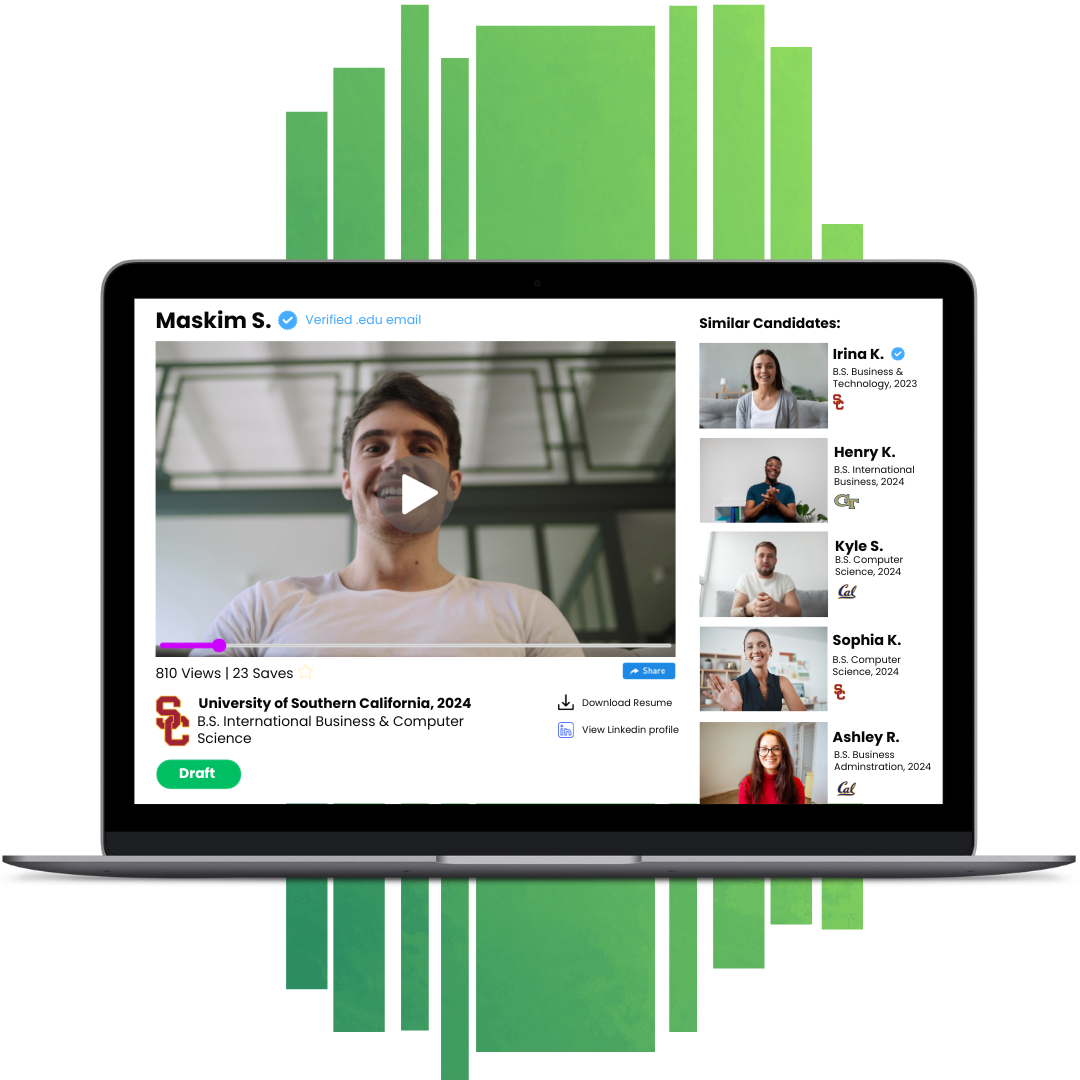
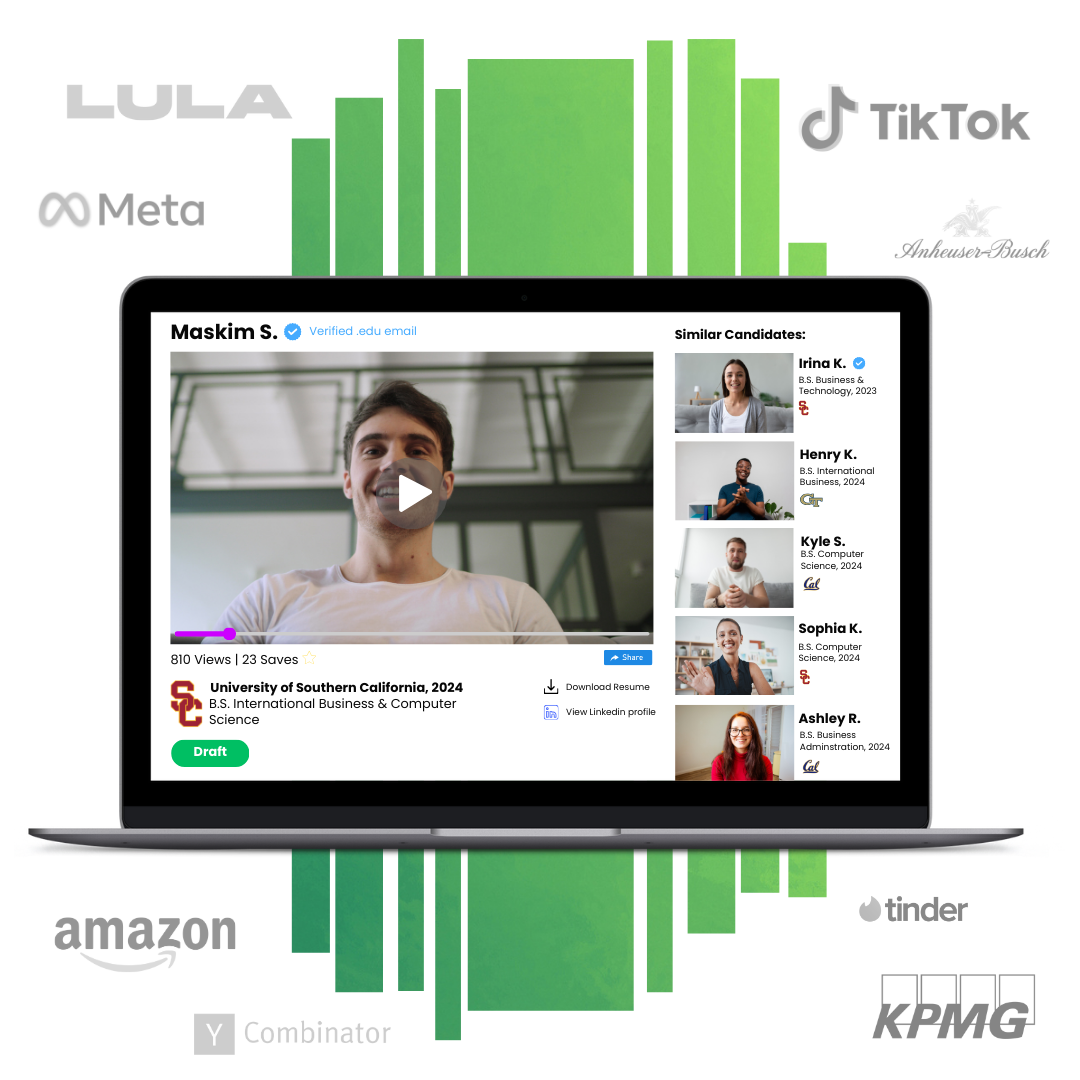
Changing page before dashboard

diff --git a/src/components/MultiStepForm.js b/src/components/MultiStepForm.js
@@ -841,7 +841,7 @@ const MultiStepForm = ({ submitHandler }) => {
                   className="error"
                 />
               </div>
-              <p>
+              <p style={{ color: 'gray' }}>
                 Once you create an account, you'll start to receive Drafted
                 emails. You can unsubscribe at any time.
               </p>
@@ -1129,19 +1129,19 @@ const MultiStepForm = ({ submitHandler }) => {
                       display: "flex",
                       justifyContent: "space-evenly",
                       alignItems: "center",
-                      marginBottom: "20px",
+                      marginBottom: "5px",
                     }}
                   >
-                    <img
+                    {/* <img
                       src={logoLula}
                       alt="Lula"
                       style={{ maxWidth: "100px", height: "auto" }}
                     />
-                    {/* <img
+                    <img
                       src={logoAmazon}
                       alt="Amazon"
-                      style={{ maxWidth: "100px", height: "auto" }}
-                    /> */}
+                      style={{ maxWidth: "40px", height: "auto" }}
+                    />
                     <img
                       src={logoGotu}
                       alt="Gotu"
@@ -1151,7 +1151,7 @@ const MultiStepForm = ({ submitHandler }) => {
                       src={logoJPMorgan}
                       alt="JPMorgan"
                       style={{ maxWidth: "100px", height: "auto" }}
-                    />
+                    /> */}
                   </div>
                   <div
                     style={{
@@ -1164,7 +1164,7 @@ const MultiStepForm = ({ submitHandler }) => {
                     <img
                       src={getDraftedScreenshot}
                       alt="Lula"
-                      style={{ maxWidth: "200px", height: "auto" }}
+                      style={{ maxWidth: "400px", height: "auto" }}
                     />
                   </div>
 
